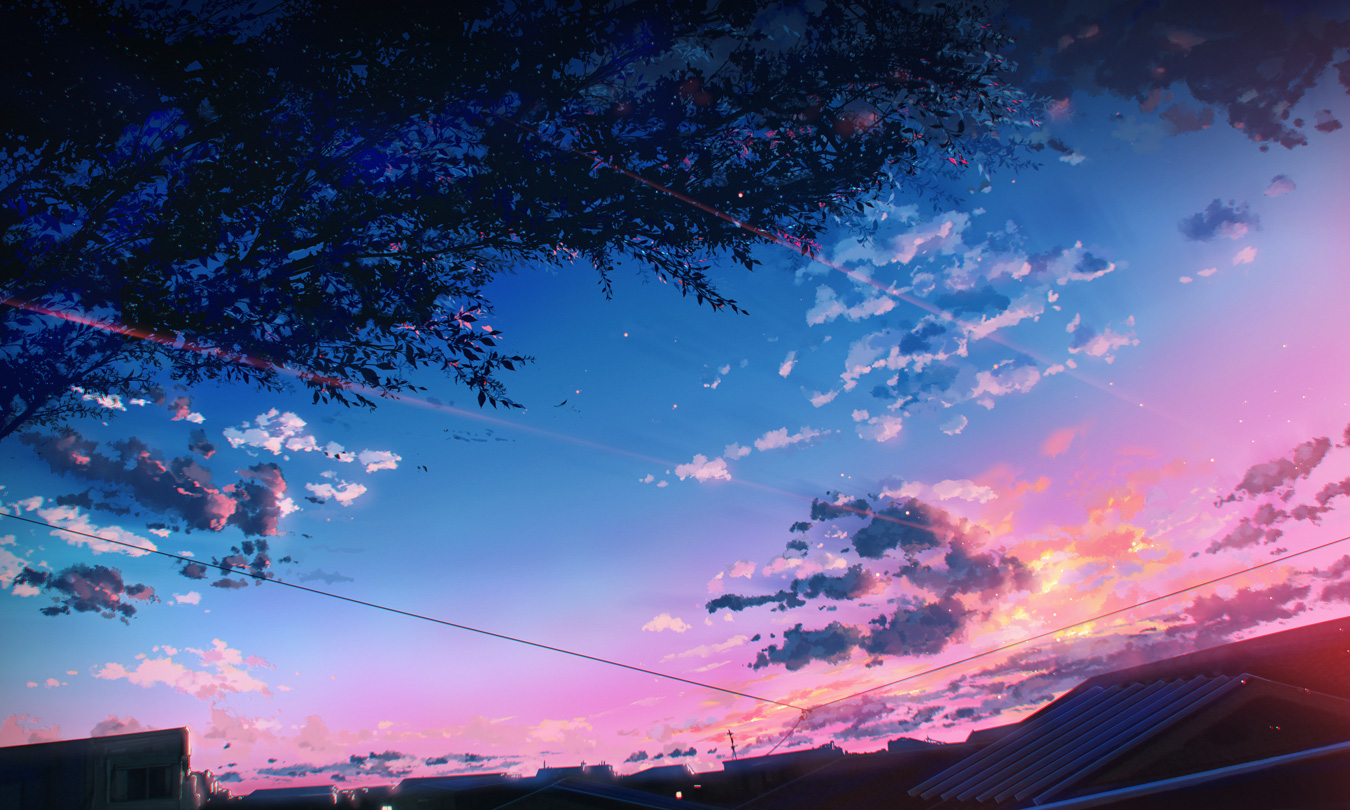
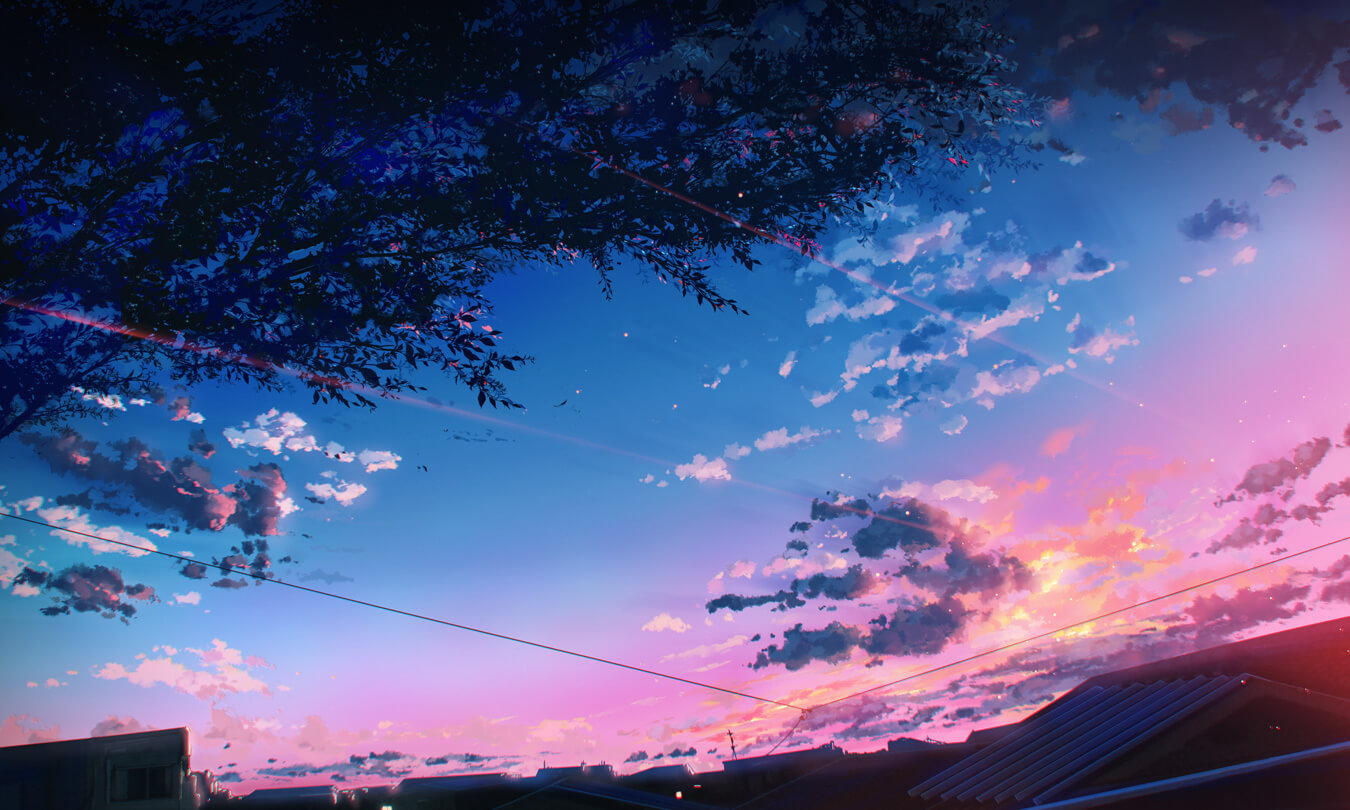
Update

diff --git a/index.html b/index.html
@@ -21,7 +21,7 @@ p{
 }
 #img{
 	width:896px;height:504px;
-	background-image:url(img/1.png),url(img/2.jpg),url(img/3.jpg);
+	background-image:url(img/1.jpg),url(img/2.jpg),url(img/3.jpg);
 	background-size:cover;
 	background-repeat:no-repeat;
 	transition:background-position 0.8s;
